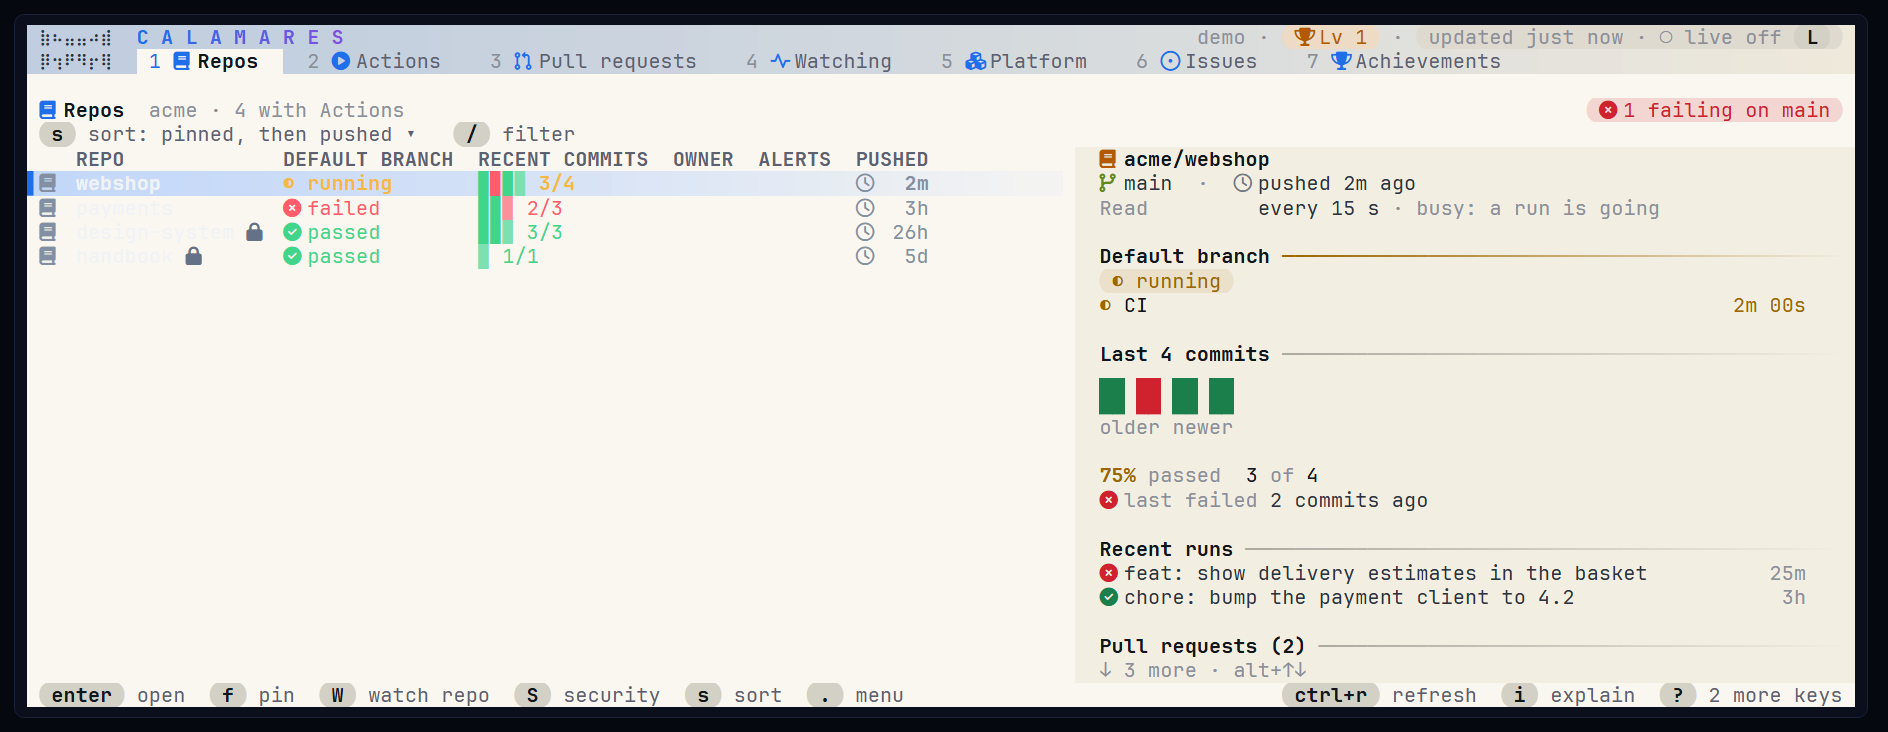
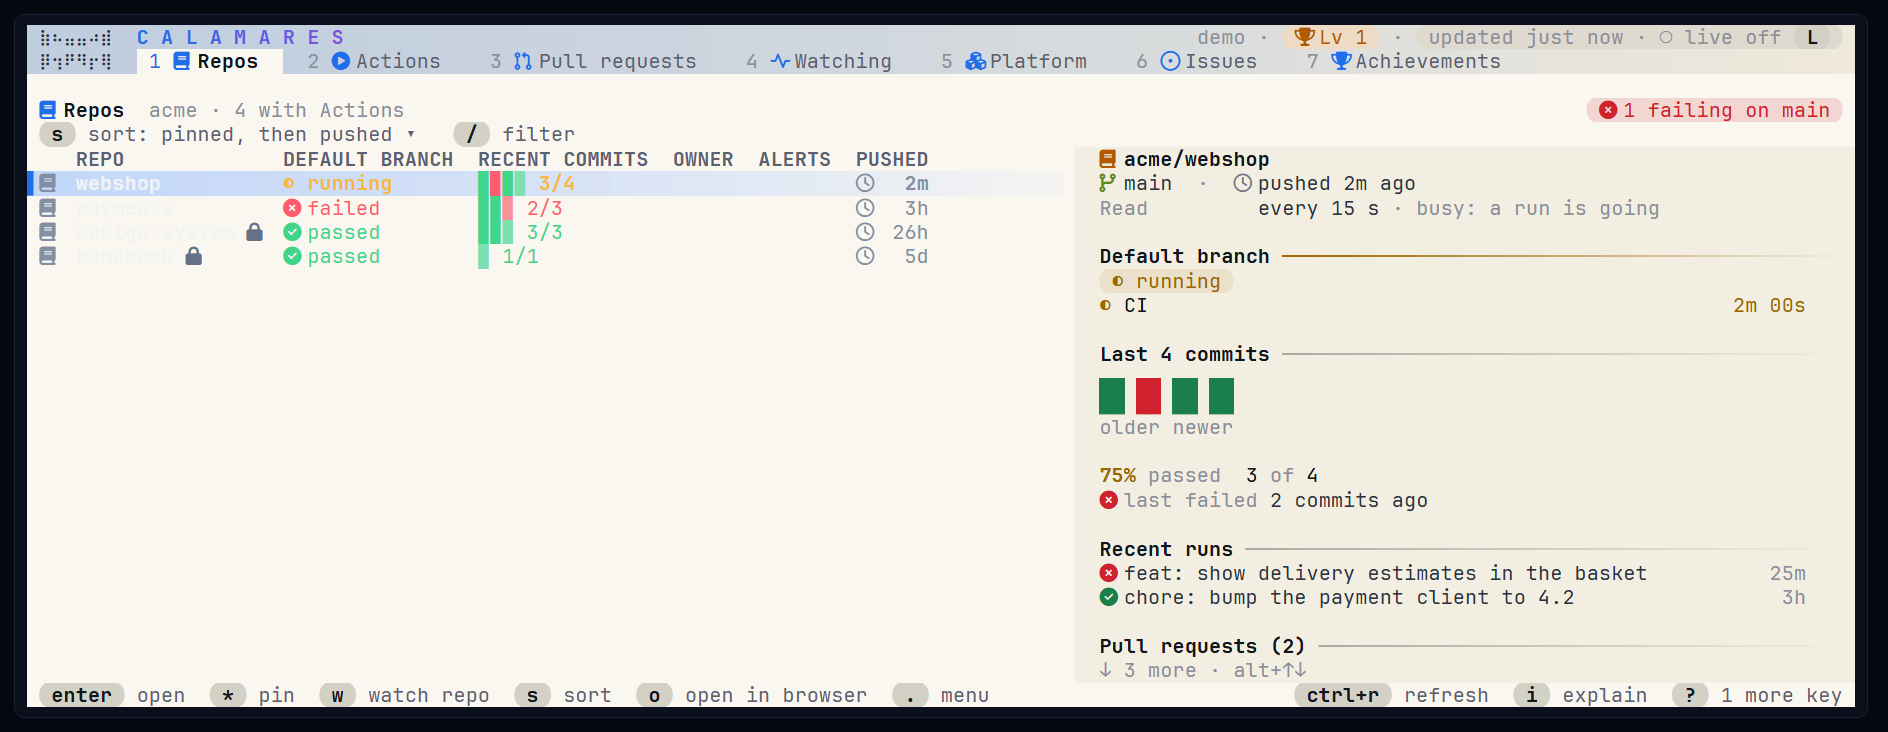
fix: name the new keys in the merge box and conversation; retake the screenshots
The merge box offered auto-merge on A (now approve) and the conversation
still said "r replies · m comments"; both name the new keys. The screenshots
and the pipeline GIF show the new key bars.

Changed region(s): [[0.6562, 0.9317, 0.9688, 0.9617], [0.3125, 0.9317, 0.5312, 0.9617]]

diff --git a/internal/ui/prscreenpanel.go b/internal/ui/prscreenpanel.go
@@ -229,9 +229,9 @@ func (v *prView) mergeBox(a *App, p *panelText) {
 		if pr.AutoMerge.By != "" {
 			text += " · by " + pr.AutoMerge.By
 		}
-		p.row(sCyan.Render("⟳")+" "+sText.Render(text), sDim.Render("A"))
-	} else if v.keyLock(a, "A") == "" && done < len(steps) {
-		p.row(sDim.Render("A  auto-merge when ready"), "")
+		p.row(sCyan.Render("⟳")+" "+sText.Render(text), sDim.Render("M"))
+	} else if pr.AutoMergeAllowed && pr.CanEnableAutoMerge && done < len(steps) {
+		p.row(sDim.Render("M  auto-merge when ready"), "")
 	}
 	if len(pr.Labels) > 0 || len(pr.Assignees) > 0 {
 		p.label("Labels")

diff --git a/internal/ui/issueview.go b/internal/ui/issueview.go
@@ -170,7 +170,7 @@ func (v *issueView) Render(a *App, w, h int) string {
 		}
 		v.built = convBuild{inner, v.ver}
 	}
-	body := box(title("Conversation", "r replies · m comments", -1, ""), strings.Join(v.list.render(bw-2, bodyH-2), "\n"), bw, bodyH, cFrame)
+	body := box(title("Conversation", "W comments or replies", -1, ""), strings.Join(v.list.render(bw-2, bodyH-2), "\n"), bw, bodyH, cFrame)
 	if side != nil {
 		rows := strings.Split(body, "\n")
 		lines := make([]string, bodyH)

diff --git a/internal/ui/prconvo.go b/internal/ui/prconvo.go
@@ -268,7 +268,7 @@ func (c *conversation) render(a *App, v *prView, w, h int) string {
 	}
 	scope := ""
 	if c.loaded {
-		scope = "r replies · m comments"
+		scope = "W comments or replies"
 	}
 	return box(title("Conversation", scope, -1, ""), strings.Join(lines, "\n"), w, h, cFrame)
 }

diff --git a/TODO.md b/TODO.md
@@ -8,6 +8,10 @@ Tasks are picked up from the top. When one is finished it moves to "Done" at the
 
 ## Done
 
+- Every key means one thing on every screen (written down in `keyMap`, checked by a test): lowercase keys only look, go somewhere, copy, sort or filter; capitals change GitHub and ask first (`A` approve, `X` cancel/close/delete, `W` comment, `T` labels, `+` new). Labels say what you get ("diff vs #212 ✓", "times vs usual"), follow is on while a run goes, rare actions live in the `.` menu, the help lists the capitals apart, and someone who knew the old keys is told once what moved.
+
+- Actions covers every repo with workflows, each read at the pace of how much goes on in it (busy every 15 s, worked on lately every 2 min, untouched every 20 min), woken by a push check every 2 minutes and by schedules that come due, and slower when the requests left run low; it keeps itself up to date whatever the live setting. Your pull requests and issues read up to 100 of each kind, with a `+` when there are more.
+
 - The new look: depth, light and drawing instead of lines. The header band is lit by the accent, the name is a gradient from the accent to violet and the place on display is a tab that rises out of the page; places keep their names wherever they fit. Panes and panel sections are layers with a fading hairline instead of boxes, callouts a bar on a tint, the views of a screen one capsule, keys round caps, and the row under the cursor is lit from its accent bar and fades out along the row. Running runs have a meter against their usual time; the run panel has a status tile, a duration gauge with a tick at the median and its history as bars as high as each run took. Under a short list Running shows the runs that just finished and the day's runs per hour. A dialog sinks the screen into the dark and casts a shadow. A new theme, abyss.
 
 - Cards float: a card is a raised slab without an outline, rounded by half blocks, with a rail and a tile in its status colour, its status word once in the title, a failure set into a well, round key caps, a shadow that darkens what it falls on and a bottom edge lit for the time it has left. It comes in lit white and settles in its colour. Older cards tuck behind the newest as a deck of narrower, dimmer layers that still say their line, the card in front counts the rest, and an unlock is a card in the same deck with its medal and confetti.
